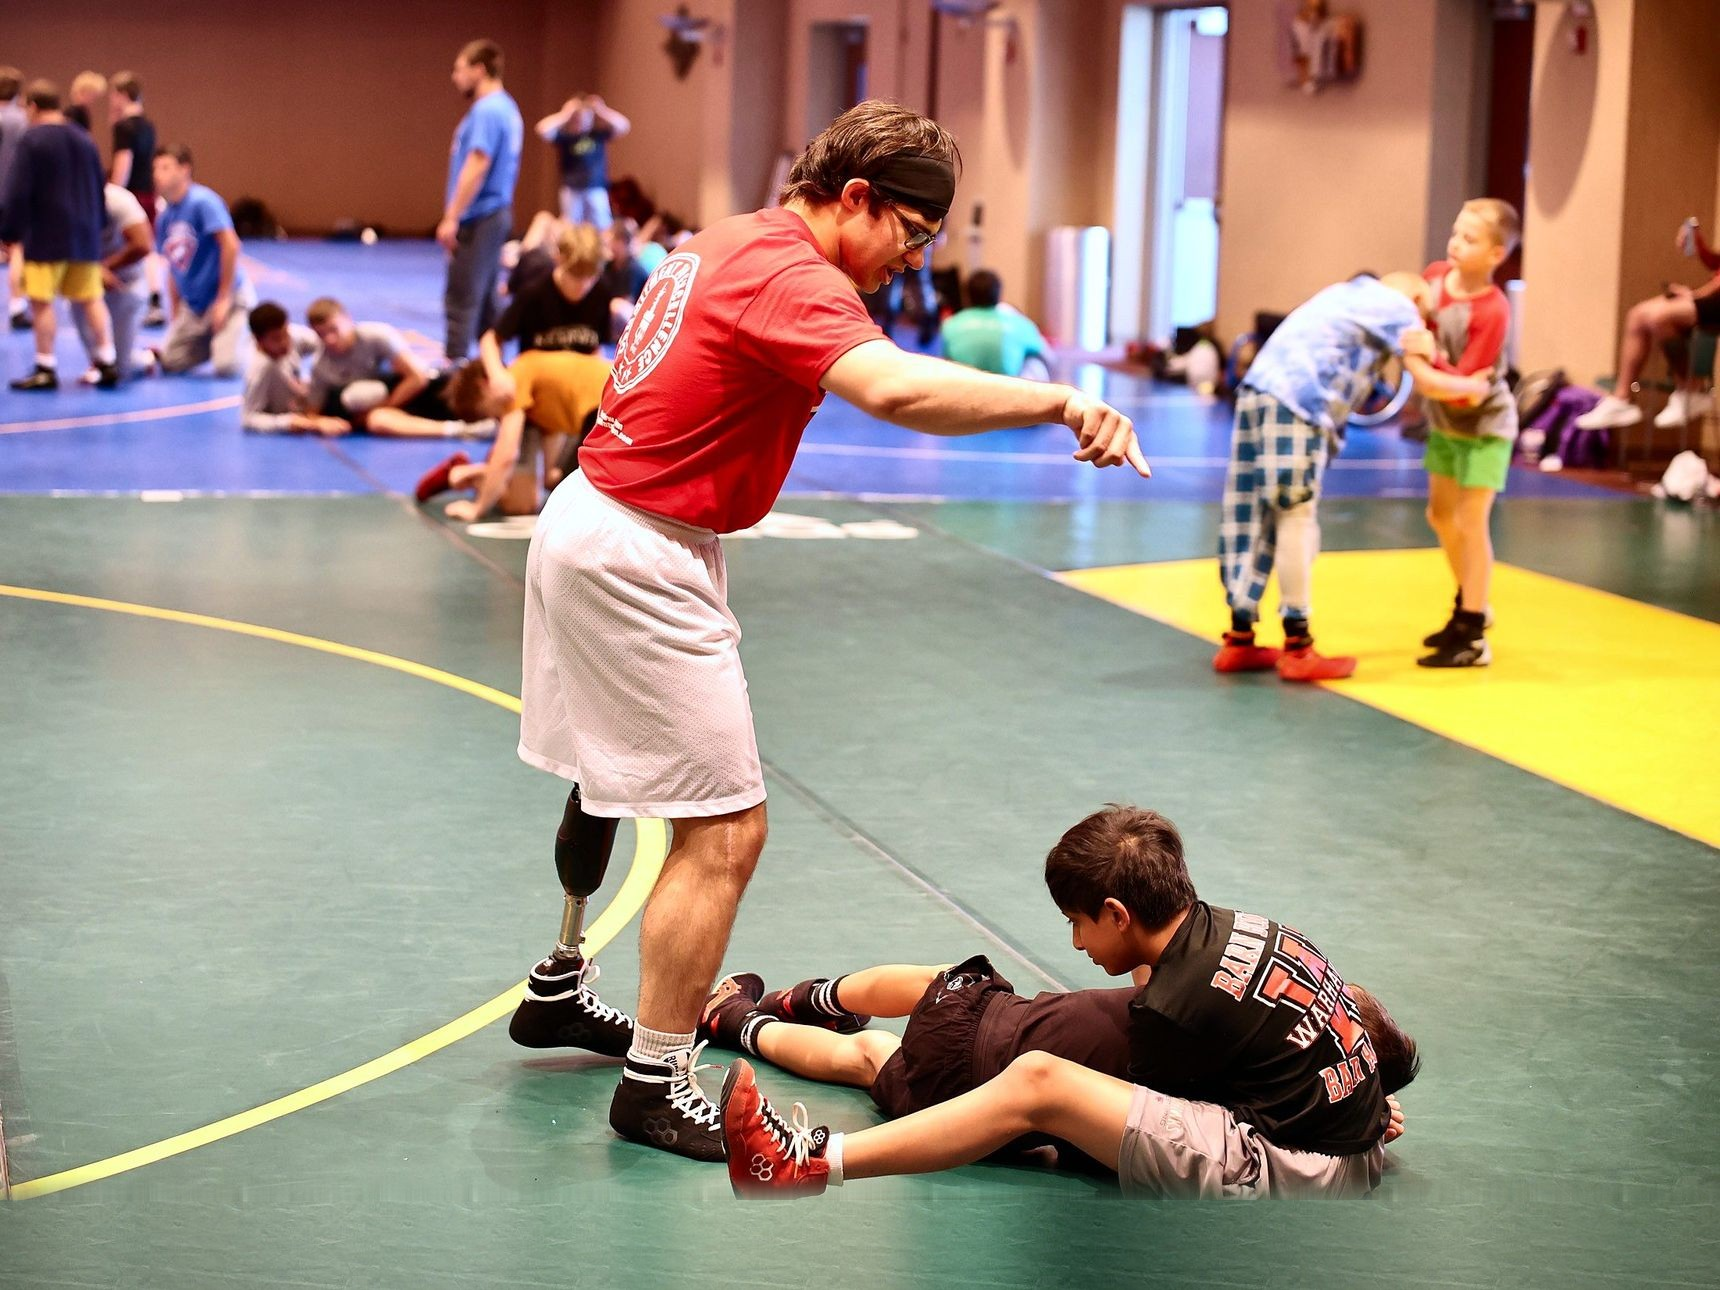
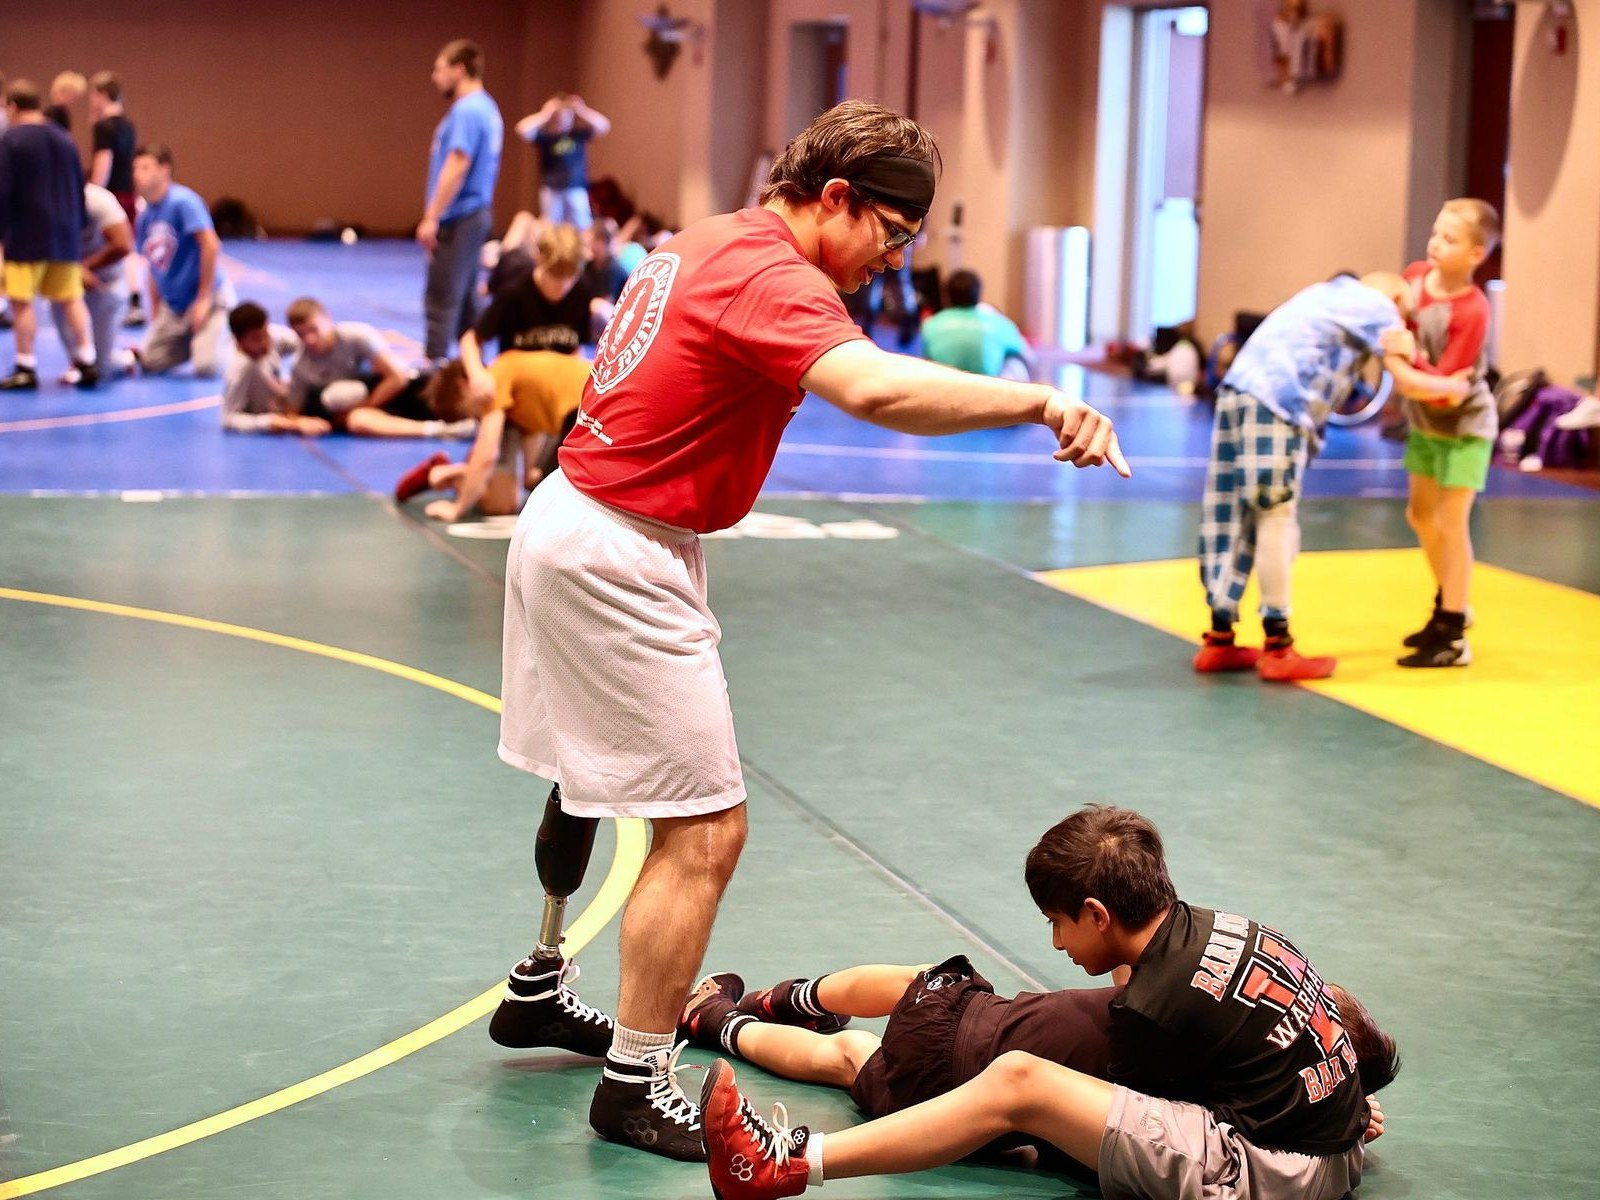
kc-camps 2027: Kids Training Camp tile photo is a plain crop of the original, no added mat (G94)

diff --git a/kc-camps/2027/index.html b/kc-camps/2027/index.html
@@ -169,7 +169,7 @@
         <div class="camp-b"><h3>Middle School Gold Medal Training Camp</h3><p>A step above Kids Training Camp, designed for the serious middle school wrestler entering grades 6–8: 6 days (July 11–16; Ohio: June 19–24) or 5 days (July 18–22, Pennsylvania only). The 5-day camp is a modified version of the 6-day. You can attend without a parent, or choose the commuter option and stay with a parent. Mat time built around scoring.</p><div class="meta"><span>Entering grades 6–8</span><span>6 or 5 days</span></div></div>
       </a>
       <a class="camp md k" href="register.html?camp=kids" data-reveal>
-        <div class="camp-ph"><img src="assets/img/r10-kids-camp.jpg" alt="A coach in a red shirt showing young campers a move on the mat" width="1720" height="1290"><span class="d">6/5<small>DAYS</small></span></div>
+        <div class="camp-ph"><img src="assets/img/r10-kids-camp.jpg?v=g94" alt="A coach in a red shirt showing young campers a move on the mat" width="1600" height="1200"><span class="d">6/5<small>DAYS</small></span></div>
         <div class="camp-b"><h3>Kids Training Camp</h3><p>Its own camp for young wrestlers entering grades 3–5: 6 days (July 11–16) or 5 days (July 18–22). The resident price covers your child and a parent, with a hotel room and meals for both. Third and fourth graders can pick either camp. It's your family's call whether your son or daughter wants the longer, more serious camp or the shorter one.</p><div class="meta"><span>Entering grades 3–5</span><span>6 or 5 days</span></div></div>
       </a>
       <a class="camp sm" href="register.html?camp=technique" data-reveal>
